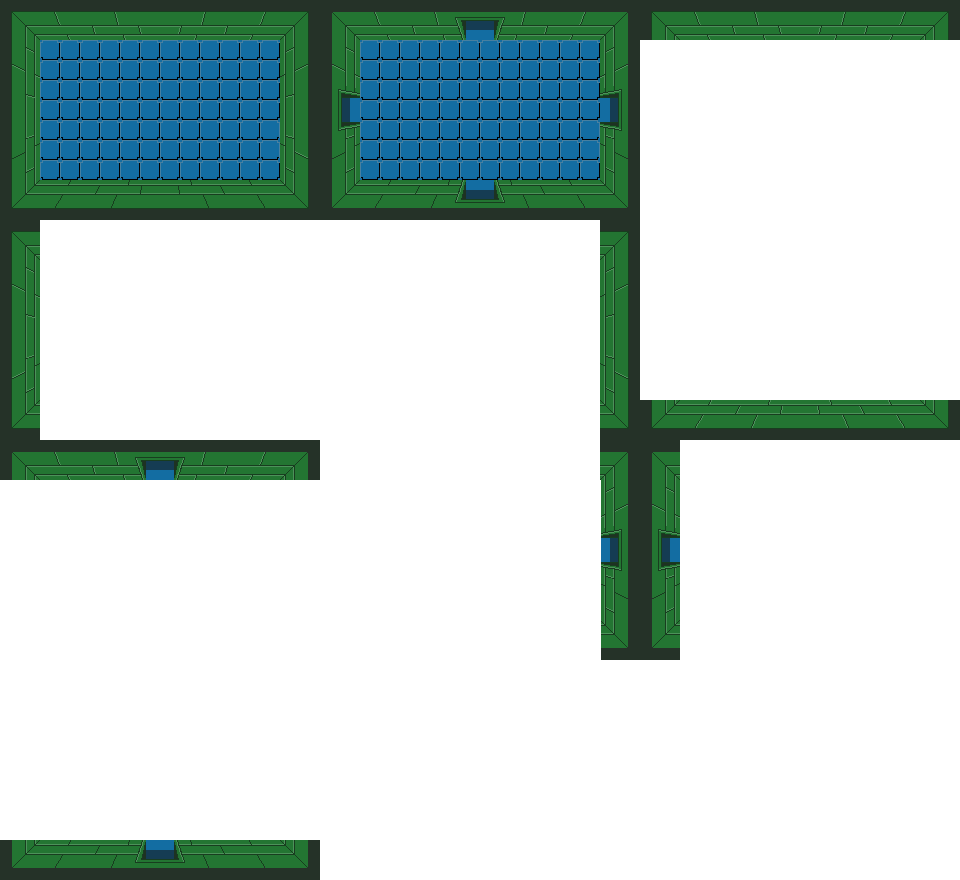
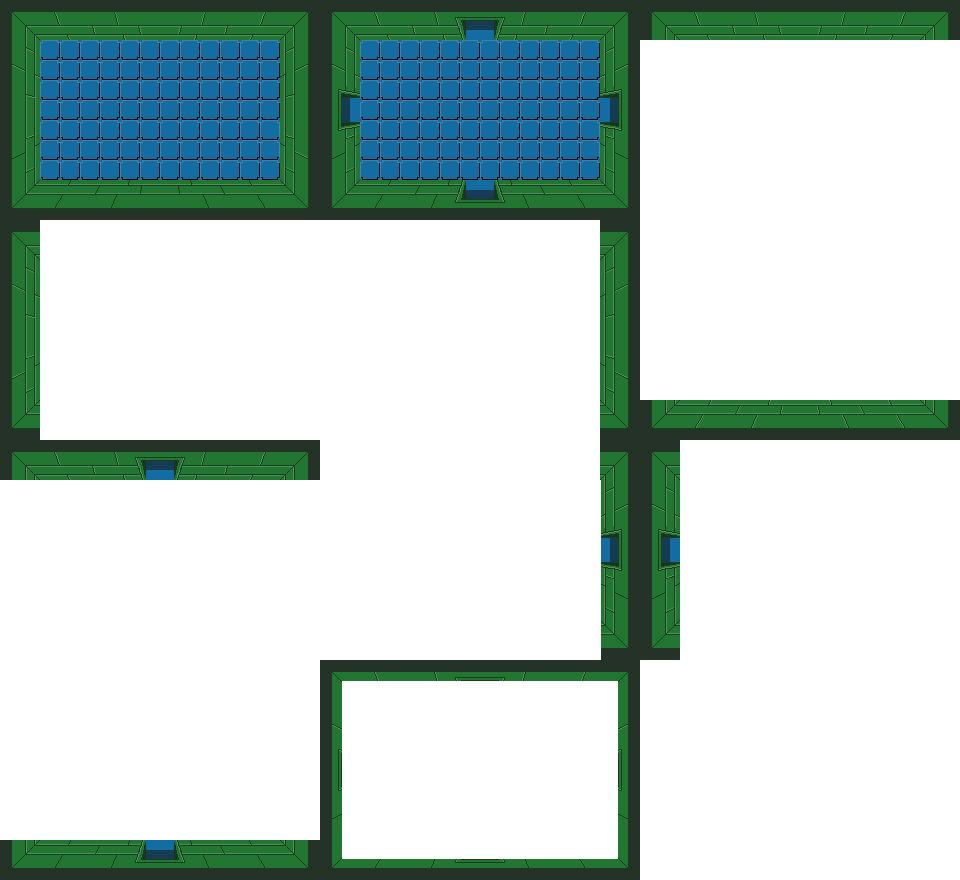
did like 500 backfilps and 3 research papers finding out how to get tile map and do collision but its here now!!

Changed region(s): [[0.3125, 0.7364, 0.6875, 1.0]]

diff --git a/src/scenes/Play.js b/src/scenes/Play.js
@@ -11,20 +11,14 @@ class Play extends Phaser.Scene {
         // 
         let dung = new Dungeon(5,5,4, 0, 10)
         dung.printMatrix()
-
+        let collidableObjects = []
 
         // Place the matrix into the world
 
         // Loop through each room of the dungeon
         // Place the room at the respective coordinates 
 
-        // These are some of the important sizes for placing the rooms
-        // all of them are measured in pixels
-        let tileSize = 20
-        let roomHeight = 220
-        let roomWidth = 320
-        // These measure the thickness of the walls
-        let wThick = 40
+        
 
         let walls = [ // north, south, east, west walls 
             // stores the index of the sprite sheet that stores the needed wall type
@@ -45,7 +39,6 @@ class Play extends Phaser.Scene {
         for (let x = 0; x < dung.width; x++){
             for (let y = 0; y < dung.height; y++){
                 if (  dung.matrix[x][y] !== null){
-                    console.log(dung.matrix[x][y])
                     // The top left of this room is at:
                     let roomCoord = [x * roomWidth, (dung.height - 1 - y) * roomHeight]
 
@@ -63,11 +56,13 @@ class Play extends Phaser.Scene {
                         }
                     }
                     // After adding the walls, add the floor and objects, using tile map
-                    this.makeNewMap(dung.matrix[x][y].roomNum, roomCoord[0],roomCoord[1], 'tiles' )  
+                    collidableObjects.push (this.makeNewMap(dung.matrix[x][y].roomNum, roomCoord[0],roomCoord[1], 'tiles' ))  
 
                 }
             }
         }
+
+        
 
 
 
@@ -75,6 +70,34 @@ class Play extends Phaser.Scene {
 
         // add new Hero to scene (scene, x, y, key, frame, direction)
         this.hero = new Hero(this, 200, 150, 'hero', 0, 'down')
+
+
+        for (let i = 0; i <collidableObjects.length; i++){
+            this.physics.add.collider(this.hero, collidableObjects[i])
+            // Spent like 2 hours fighting Chatgpt to get this!!!
+            // https://www.youtube.com/watch?v=96kUkPgAiJA&ab_channel=WClarkson 
+            // Turns out I just needed Lord W Clarkson!!!1!!! MY HEROOO 😍
+            collidableObjects[i].setCollisionBetween(0,15)
+            console.log(collidableObjects[i])
+        }
+
+
+        // Add collision with the walls!
+        // Add layer that the player can go under
+
+        for (let x = 0; x < dung.width; x++){
+            for (let y = 0; y < dung.height; y++){
+                if (  dung.matrix[x][y] !== null){
+                    // The top left of this room is at:
+                    let roomCoord = [x * roomWidth, (dung.height - 1 - y) * roomHeight]
+                    this.add.image(roomCoord[0],roomCoord[1], 'dungeonWalls', 10).setOrigin(0) // Adds a wall with a door facing in direction at roomCoord
+                }
+            }
+        }
+
+
+
+
 
         // setup keyboard input
         this.keys = this.input.keyboard.createCursorKeys()
@@ -107,14 +130,17 @@ class Play extends Phaser.Scene {
         // Start by taking the room type and determing what json file that requires
 
         
-        const map = this.make.tilemap({ key: 'Basic' })
+        const map = this.make.tilemap({ key: key })
         // IM CHEATING TO TEST SOMETHING REMOVE THIS LINE^^^^^ DONT FORGET TO REMOVE IT WHEN ALL OF THE ROOMS END UP LOOKING LIKE A BASIC ROOM
         // The line should be this instead: 
         //  const map = this.make.tilemap({ key: key })
-        const tileset = map.addTilesetImage('tiles', 'tiles');
-        const groundLayer = map.createLayer('Tile Layer 1', tileset, x, y);
-        const collisionLayer = map.createLayer('Tile Layer 2', tileset, x, y);
+        let offsetX = x + wThick
+        let offsetY = y+ wThick
+        const tileset = map.addTilesetImage('DungeonSprites1', 'tiles', 20, 20);
+        const groundLayer = map.createLayer('Tile Layer 1', tileset, offsetX , offsetY);
+        const collisionLayer = map.createLayer('Tile Layer 2', tileset, offsetX, offsetY);
         collisionLayer.setCollisionByProperty({ collides: true });
+        return collisionLayer
     }
     
 }

diff --git a/src/main.js b/src/main.js
@@ -25,3 +25,10 @@ function getRandomInt(min, max) {
     max = Math.floor(max); // Round down to the nearest integer
     return Math.floor(Math.random() * (max - min + 1)) + min;
 }
+// These are some of the important sizes for placing the rooms
+// all of them are measured in pixels
+let tileSize = 20
+let roomHeight = 220
+let roomWidth = 320
+// These measure the thickness of the walls
+let wThick = 40
